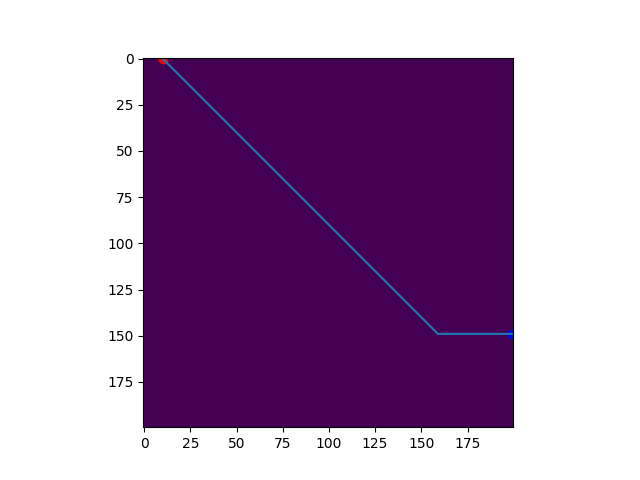
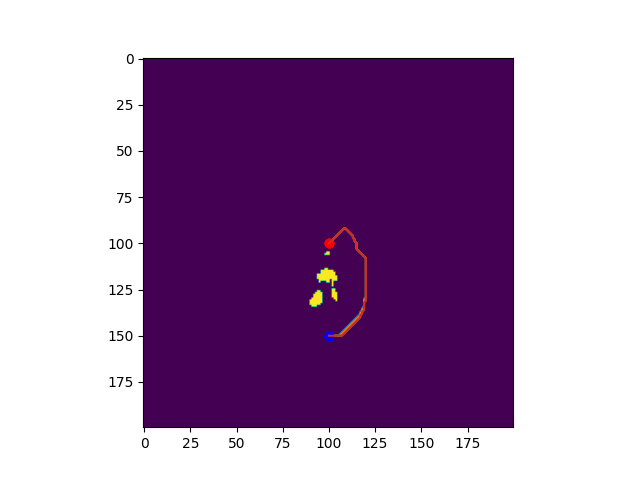
fixing path planning

diff --git a/autonomous/path_2d_show.py b/autonomous/path_2d_show.py
@@ -1,38 +1,12 @@
 #!/usr/bin/env python3
 
-import time
-from a_star import a_star
-import numpy as np
 import matplotlib.pyplot as plt
 
-"""def add_obs(array):
-    
-    for i in range(350):
-        array[50][i] = 1.0
-
-    for i in range(100):
-        array[140, 399 - i] = 1.0
-
-    for i in range(300):
-        array[300, 399 - i] = 1.0
-
-    return array
-"""
 def show_path(grid, path, start, end):
-    plt.imshow(arr)
-    plt.plot(start[1], start[0], 'ro')
-    plt.plot(end[1], end[0], 'bo')
+    plt.imshow(grid)
+    plt.plot(100 + 10 * start[1], 100 + 10 * start[0], 'ro')
+    plt.plot(100 + 10*end[1], 100 + 10 * end[0], 'bo')
     plt.plot(path[:,1], path[:,0])
-    plt.savefig(r"path.png")
-
-arr = np.zeros((200, 200))
-p1, p2 = (0, 10), (149, 199)
-
-#arr = add_obs(arr)
-
-t = time.perf_counter()
-path = np.array(a_star(arr, p1, p2, 10.0))
-print(time.perf_counter() - t)
-show_path(arr, path, p1, p2)
+    plt.savefig("path.png")
 
 

diff --git a/autonomous/main.py b/autonomous/main.py
@@ -8,20 +8,7 @@ from mapper import Mapper
 def main(args):
     rclpy.init(args=args)
 
-    """print("Welcome to fun car drive!")
-    print("Setting up objects...")
-
-    print("Input waypoints manually?")
-    print("[0]: No - use autonomous path planning")
-    print("[1]: Yes")
-
-    manual_input = int(input("Input your decision: "))
-
-    if manual_input:
-        # TODO: Setup to allow manual inputs as well as path planning
-        pass
-
-    else:"""
+    print("Welcome to fun car drive!")
     dest = [0.0, 0.0]
     dest[0] = float(input("Enter destination x coordinate: "))
     dest[1] = float(input("Enter destination y coordinate: "))

diff --git a/autonomous/path_planner.py b/autonomous/path_planner.py
@@ -107,10 +107,10 @@ class PathPlanner(Node):
         
         print(_map.shape)
 
-        self.route = a_star(_map, self.get_grid_coord(self.start), self.get_grid_coord(self.goal), self.resolution)
+        self.route = np.array(a_star(_map, self.get_grid_coord(self.start), self.get_grid_coord(self.goal), self.resolution))
 
         route_coordinates = self.get_local_coords_route(self.route)
-        show_path(_map, self.route, src, dest)
+        show_path(_map, self.route, self.start, self.goal)
         waypoints = Waypoints()
 
         for wpt in route_coordinates:

diff --git a/autonomous/mapper.py b/autonomous/mapper.py
@@ -185,7 +185,7 @@ class Mapper(Node):
         if time.perf_counter() - self.previous_plan > 2:
             if self.planner:
                 self.previous_plan = time.perf_counter()
-                layer = self.extract_layer(2.8)
+                layer = self.extract_layer(2.5)
                 print(sum(layer))
                 self.planner.get_path(layer.squeeze())
 

diff --git a/autonomous/grid_3d.py b/autonomous/grid_3d.py
@@ -46,7 +46,8 @@ class Grid3D:
 
     def extract_z(self, height_m):
         height_index = int(height_m / self.resolution)
-        return self.map[:, :, 30]
+        return self.map[:, :, 26:].sum(axis=2).astype(bool).astype(float)
+        #return self.map[:, :, height_index]
 
     def get_indexes(self, points):
         """
